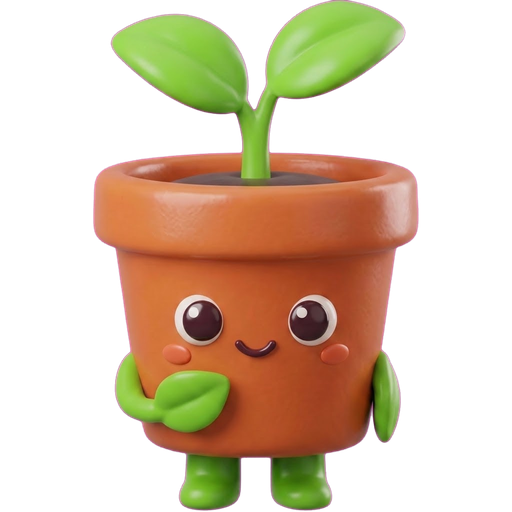
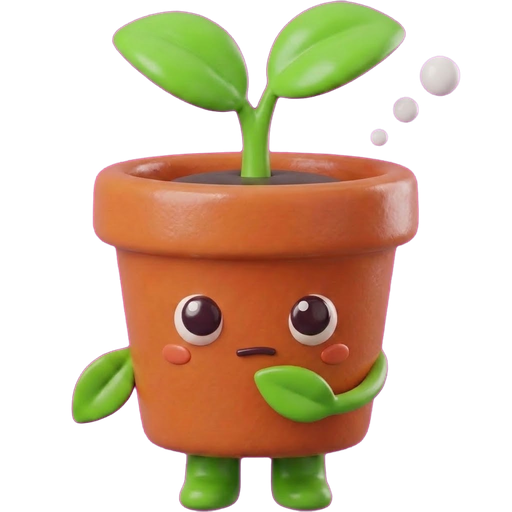
fix(mascot): redraw six poses on one scale and ground line
sleeping had its eyes open, sun had drifted off-model, wave and thinking did
not read as their pose, and rain and frost were drawn smaller than the rest,
so a pose change in one slot resized the character. All six are redrawn
against idle as the model sheet; wave and thinking are re-cut into body and
stem layers (sway pivot unchanged).

gen_images.py can now send _ref_file and _ref_each together, the shared model
sheet first.

diff --git a/tool/gen_images.py b/tool/gen_images.py
@@ -155,7 +155,9 @@ def run(names, spec, out_dir, aspect, refs, resolution, ext, urls, cut=False,
             continue
         # Each entry against its own existing art, when the run is an upscale.
         own = ref_each and ref_each.format(name=name)
-        use = [data_uri(own)] if own and os.path.exists(own) else refs
+        # With _ref_file as well, the shared reference goes first: it is the
+        # model sheet, and the entry's own file is the pose to redraw.
+        use = (refs or []) + [data_uri(own)] if own and os.path.exists(own) else refs
         pending[name] = (generate(spec[name], aspect, use, resolution), path)
         print(f"queued {name}")
         time.sleep(1)

diff --git a/tool/specs/README.md b/tool/specs/README.md
@@ -9,6 +9,7 @@ Files that already exist are skipped, so a re-run only fills gaps.
 | Spec | Out dir | What it does |
 |---|---|---|
 | `mascot.json` | `tool/out/mascot` | Upscales the 12 poses to 1024 px. `_ref_each` points each entry at its own existing `assets/mascot/<pose>.png`, so every pose is redrawn against itself — an upscale, not a reinvention. |
+| `mascot-fix*.json` | `tool/out/mascot-fix` | 2026-11-15 redraws of `sleeping`, `sun`, `rain`, `frost` (pass 1), then `wave` and `thinking` (passes 2 and 3). Each draws against `idle` as the model sheet (`_ref_file`), so every pose comes back at idle's scale and ground line. Pass 1 also sent the old pose (`_ref_each`), which pulled `rain` back to its old, smaller scale; passes 2 and 3 send idle alone. |
 | `hero.json` | `tool/out/hero` | The three onboarding photographs at 4k. |
 
 Masters land in `tool/out/` (gitignored) and are downscaled into `assets/` by

diff --git a/assets/mascot/CREDITS.md b/assets/mascot/CREDITS.md
@@ -9,6 +9,12 @@ The poses were drawn at 256 px in 2026-09 and upscaled to 1024 px on 2026-09-23,
 each pose against its own earlier file, so the character is the same one — not a
 redraw. They ship at 512 px.
 
+On 2026-11-15 `sleeping`, `sun`, `wave`, `thinking`, `rain` and `frost` were
+redrawn against `idle` (`tool/specs/mascot-fix*.json`): sleeping had its eyes
+open, sun had drifted off-model, wave and thinking did not read, and rain and
+frost were drawn smaller than the rest. All twelve now share idle's scale and
+ground line, so a pose change in one slot no longer resizes the character.
+
 `idle`, `wave` and `thinking` also ship split in two, `<pose>_body.png` plus
 `<pose>_stem.png`, so the seedling can sway on its own; `idle_body_blink.png` is
 the same body with its eyes closed. `tool/mascot_layers.py` cuts those, and
